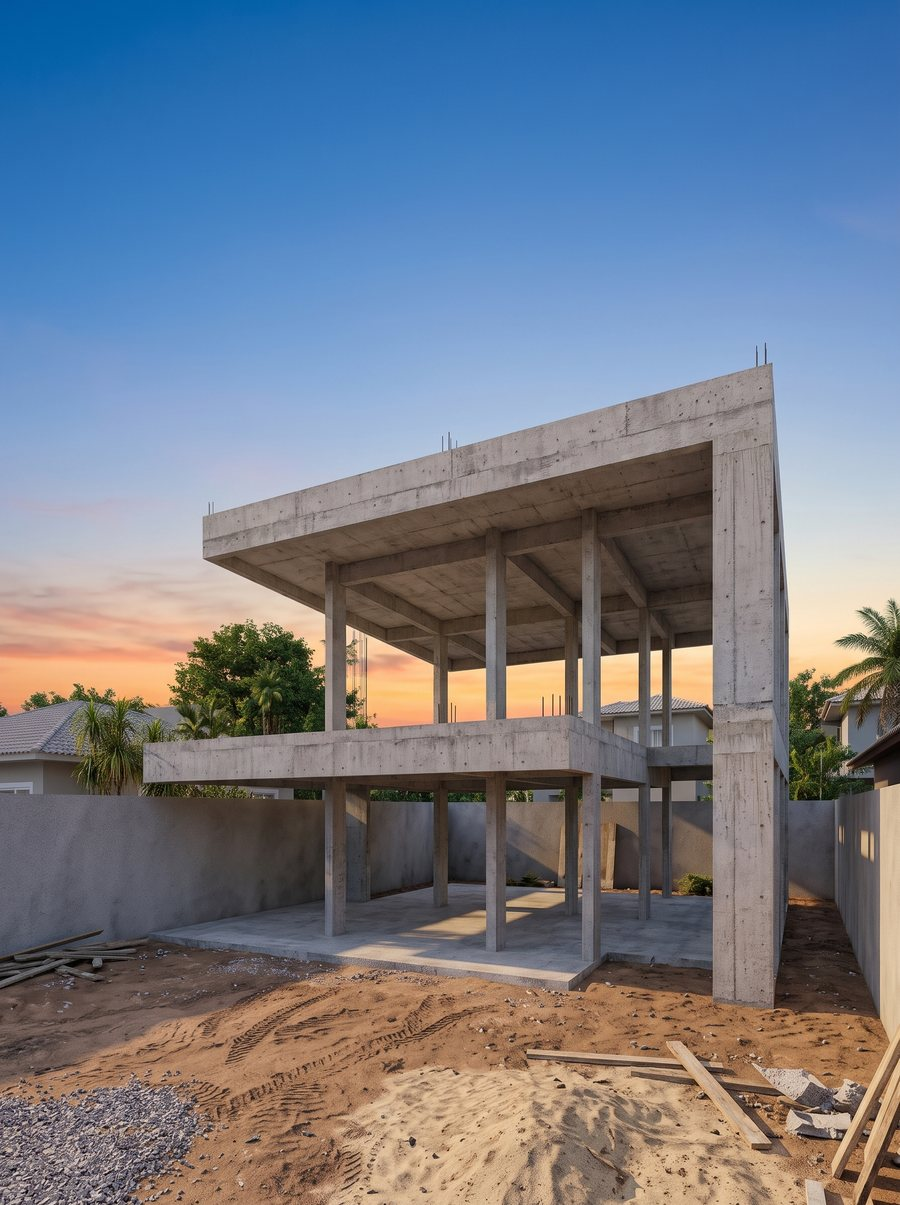
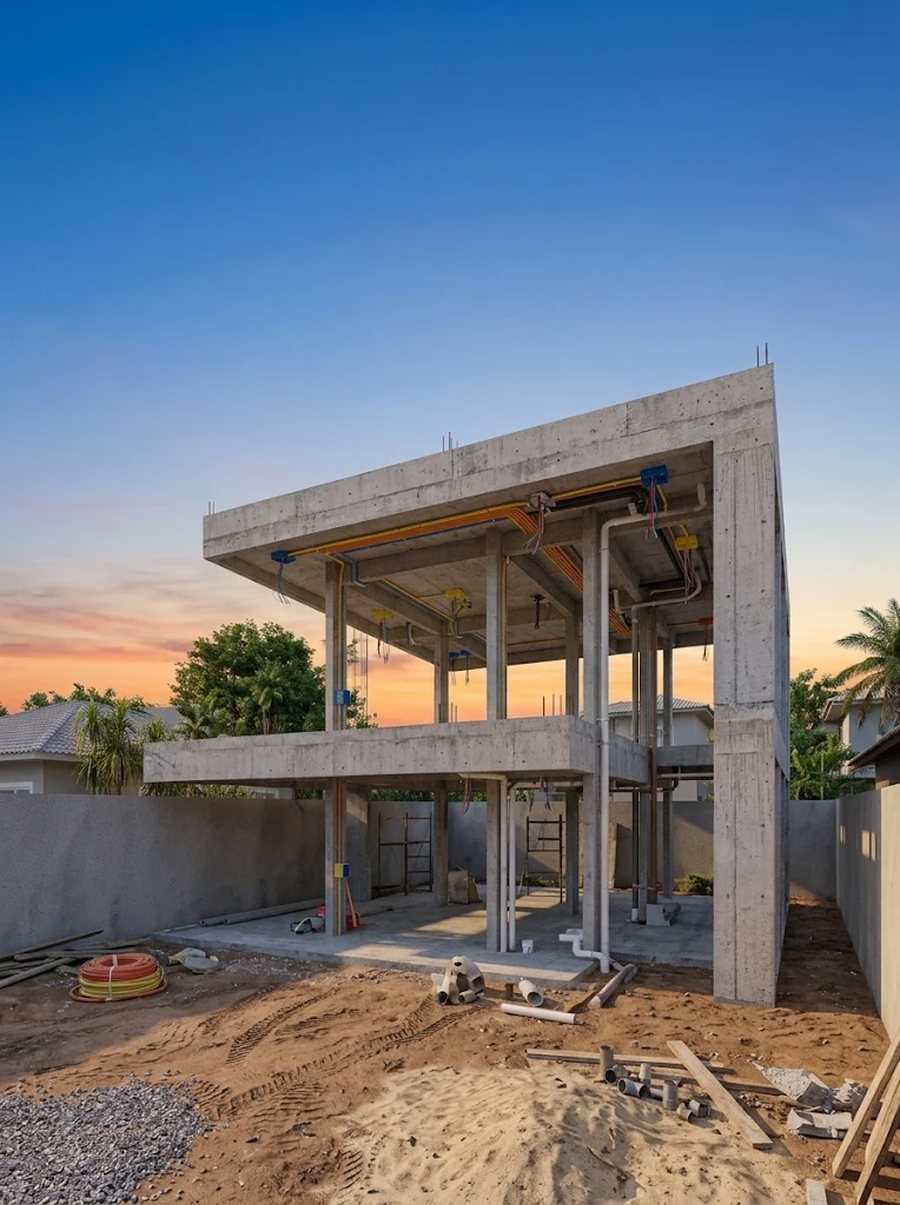
Troca imagem da estrutura pela versão com instalações
Claude-Session: https://claude.ai/code/session_01DdLhVtjRNJFwW8CKP39bG6

diff --git a/index.html b/index.html
@@ -210,8 +210,8 @@ footer a{color:#CFD6DE}
     <div class="gal reveal">
       <div class="ba" style="--pos:50%">
         <img src="depois-fachada.jpg" alt="Sobrado pronto com fachada em pedra e madeira" loading="lazy">
-        <img class="before" src="antes-estrutura.jpg" alt="Estrutura em concreto do mesmo sobrado, com pilares, vigas e lajes em balanço" loading="lazy">
-        <span class="lb l">Estrutura</span><span class="lb r">Fachada</span>
+        <img class="before" src="antes-estrutura.jpg?v=2" alt="Estrutura em concreto do mesmo sobrado com as instalações elétricas e hidráulicas passando por lajes e pilares" loading="lazy">
+        <span class="lb l">Estrutura e instalações</span><span class="lb r">Fachada</span>
         <span class="bar" aria-hidden="true"><i>‹ ›</i></span>
         <span class="hint2">arraste para comparar</span>
         <input type="range" min="0" max="100" value="50" step="1" aria-label="Comparar estrutura e fachada">
